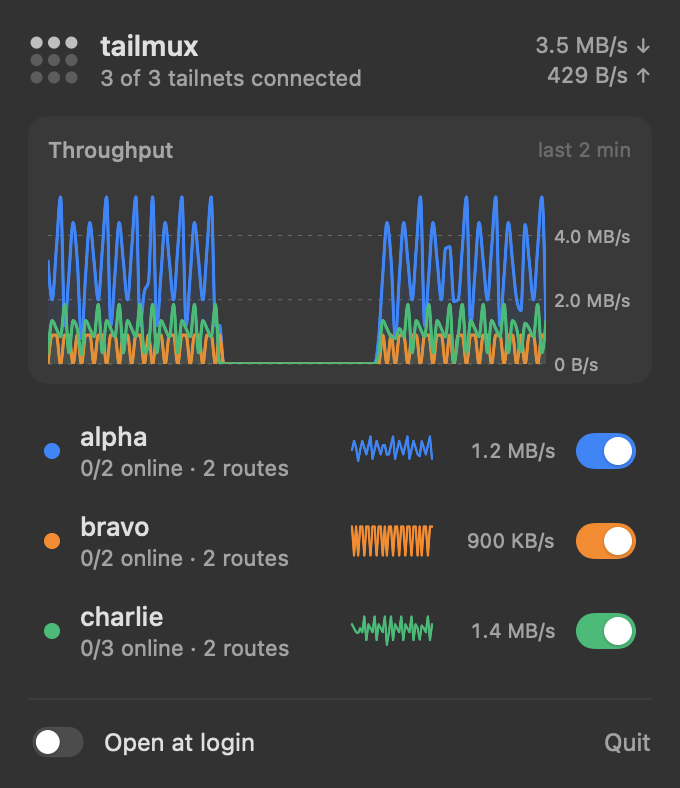
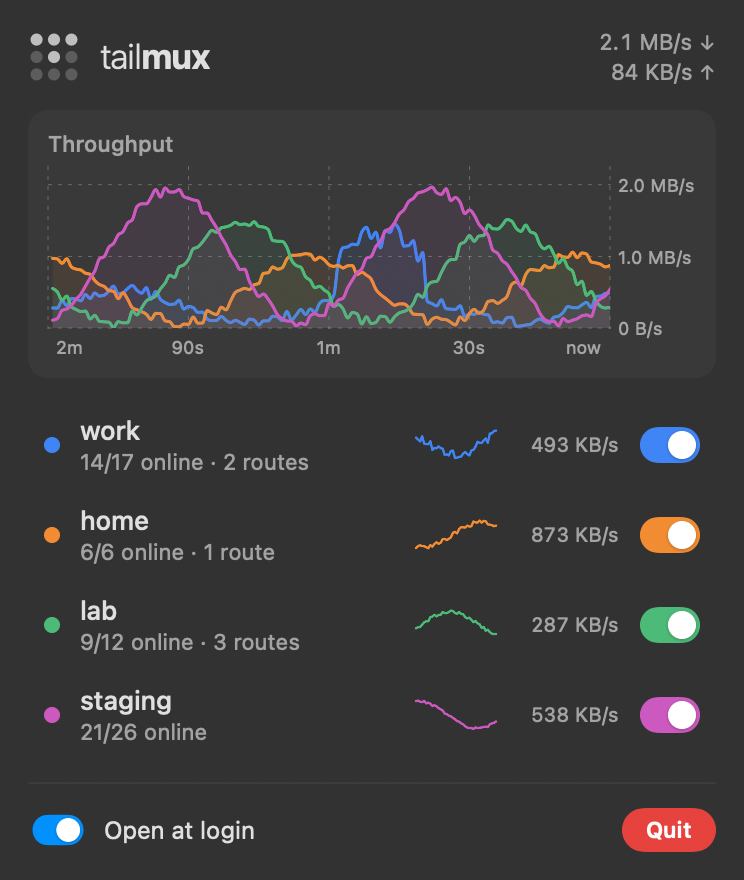
Menu bar and README design pass
- Panel: "tail" light / "mux" bold wordmark, no connected-count line,
  a time axis (2m .. now) instead of "last 2 min", red Quit pill.
- README: gray banner with the dot-grid logo and wordmark, release
  badge, and a screenshot that follows the reader's light/dark theme.
  Screenshots use generic tailnet names.

diff --git a/macos/TailmuxBar/Sources/TailmuxBar/PanelView.swift b/macos/TailmuxBar/Sources/TailmuxBar/PanelView.swift
@@ -38,8 +38,10 @@ struct PanelView: View {
                 .renderingMode(.template)
                 .foregroundStyle(.primary)
             VStack(alignment: .leading, spacing: 1) {
-                Text("tailmux").font(.system(size: 14, weight: .semibold))
-                Text(subtitle).font(.system(size: 11)).foregroundStyle(.secondary)
+                Wordmark(size: 17)
+                if store.offline != nil {
+                    Text("Not running").font(.system(size: 11)).foregroundStyle(.secondary)
+                }
             }
             Spacer()
             if store.offline == nil {
@@ -55,13 +57,6 @@ struct PanelView: View {
         }
     }
 
-    private var subtitle: String {
-        if store.offline != nil { return "Not running" }
-        let n = store.tailnets.count
-        var s = "\(store.runningCount) of \(n) tailnet\(n == 1 ? "" : "s") connected"
-        if let tun = store.status?.tun { s += " · \(tun.interface)" }
-        return s
-    }
 }
 
 struct CompactLabel: LabelStyle {
@@ -90,7 +85,6 @@ struct ThroughputChart: View {
             HStack {
                 Text("Throughput").font(.system(size: 11, weight: .medium)).foregroundStyle(.secondary)
                 Spacer()
-                Text("last 2 min").font(.system(size: 10)).foregroundStyle(.tertiary)
             }
             Chart(points) { p in
                 LineMark(x: .value("t", p.t), y: .value("rate", p.v), series: .value("tailnet", p.name))
@@ -101,10 +95,18 @@ struct ThroughputChart: View {
                     .foregroundStyle(color(p.name).opacity(0.08))
                     .interpolationMethod(.monotone)
             }
-            .chartXScale(domain: -(HistoryLen - 1)...0)
+            .chartXScale(domain: -HistoryLen...0)
             .chartYScale(domain: 0...max(peak * 1.15, 2048))
             .chartPlotStyle { $0.clipped() }
-            .chartXAxis(.hidden)
+            .chartXAxis {
+                AxisMarks(values: [-120, -90, -60, -30, 0]) { v in
+                    AxisGridLine(stroke: StrokeStyle(lineWidth: 0.5, dash: [2, 3]))
+                    // Pull the end labels ("2m", "now") inside the plot.
+                    AxisValueLabel(anchor: v.index == 0 ? .topLeading : v.index == v.count - 1 ? .topTrailing : .top) {
+                        Text(timeLabel(v.as(Int.self) ?? 0)).font(.system(size: 9))
+                    }
+                }
+            }
             .chartYAxis {
                 AxisMarks(position: .trailing, values: .automatic(desiredCount: 3)) { v in
                     AxisGridLine(stroke: StrokeStyle(lineWidth: 0.5, dash: [2, 3]))
@@ -286,9 +288,11 @@ struct FooterView: View {
             }
             Spacer()
             Text("Quit")
-                .font(.system(size: 12))
-                .foregroundStyle(.secondary)
-                .contentShape(Rectangle())
+                .font(.system(size: 11, weight: .semibold))
+                .foregroundStyle(.white)
+                .padding(.horizontal, 12).padding(.vertical, 4)
+                .background(Capsule().fill(Color(red: 0.90, green: 0.26, blue: 0.24)))
+                .contentShape(Capsule())
                 .onTapGesture { NSApp.terminate(nil) }
         }
     }
@@ -358,5 +362,24 @@ struct UpdateBanner: View {
         if info.state == "failed" { return info.error ?? "" }
         if info.state == "installing" { return "Homebrew builds it from source; this takes a minute or two." }
         return "You have \(info.current)." + (info.auto ? " It installs itself automatically too." : "")
+    }
+}
+
+/// "tail" light, "mux" bold.
+struct Wordmark: View {
+    var size: CGFloat
+
+    var body: some View {
+        (Text("tail").font(.system(size: size, weight: .light))
+            + Text("mux").font(.system(size: size, weight: .bold)))
+            .tracking(-0.2)
+    }
+}
+
+private func timeLabel(_ secondsAgo: Int) -> String {
+    switch -secondsAgo {
+    case 0: return "now"
+    case let s where s % 60 == 0: return "\(s / 60)m"
+    case let s: return "\(s)s"
     }
 }

diff --git a/README.md b/README.md
@@ -1,11 +1,21 @@
-# tailmux
+<p align="center">
+  <img src="docs/banner.svg" alt="tailmux: be on all your tailnets at once" width="720">
+</p>
 
-[![CI](https://github.com/GrowlyX/tailmux/actions/workflows/ci.yml/badge.svg)](https://github.com/GrowlyX/tailmux/actions/workflows/ci.yml)
+<p align="center">
+  <a href="https://github.com/GrowlyX/tailmux/actions/workflows/ci.yml"><img src="https://github.com/GrowlyX/tailmux/actions/workflows/ci.yml/badge.svg" alt="CI"></a>
+  <a href="https://github.com/GrowlyX/tailmux/releases/latest"><img src="https://img.shields.io/github/v/release/GrowlyX/tailmux" alt="latest release"></a>
+</p>
 
-**Be on all your tailnets at once.** Tailscale's client joins one tailnet at a time;
-tailmux joins them all and sends each connection to the tailnet that owns it.
+Tailscale's client joins one tailnet at a time. tailmux joins them all and sends
+each connection to the tailnet that owns it.
 
-<img src="docs/panel-dark.png" width="340" alt="tailmux menu bar">
+<p align="center">
+  <picture>
+    <source media="(prefers-color-scheme: dark)" srcset="docs/panel-dark.png">
+    <img src="docs/panel-light.png" width="372" alt="tailmux menu bar: four tailnets with switches and live throughput">
+  </picture>
+</p>
 
 ```sh
 brew install growlyx/tap/tailmux
